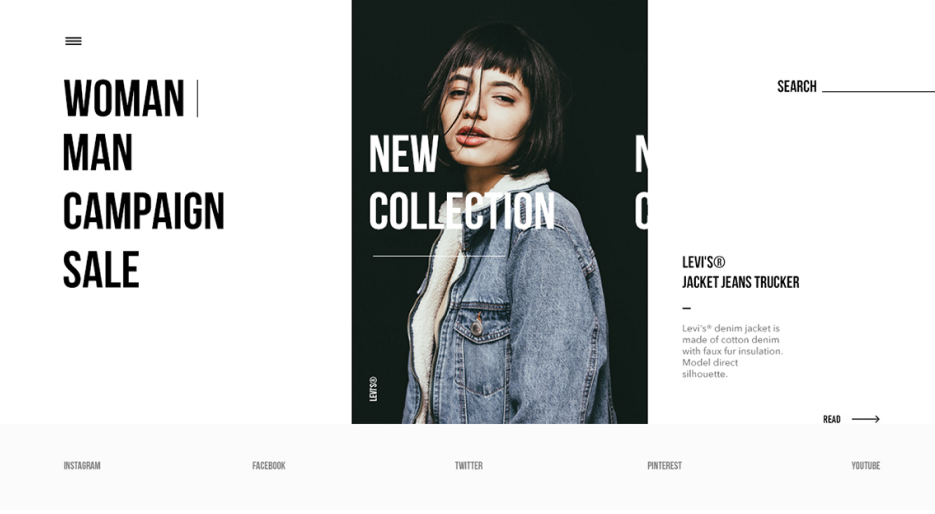
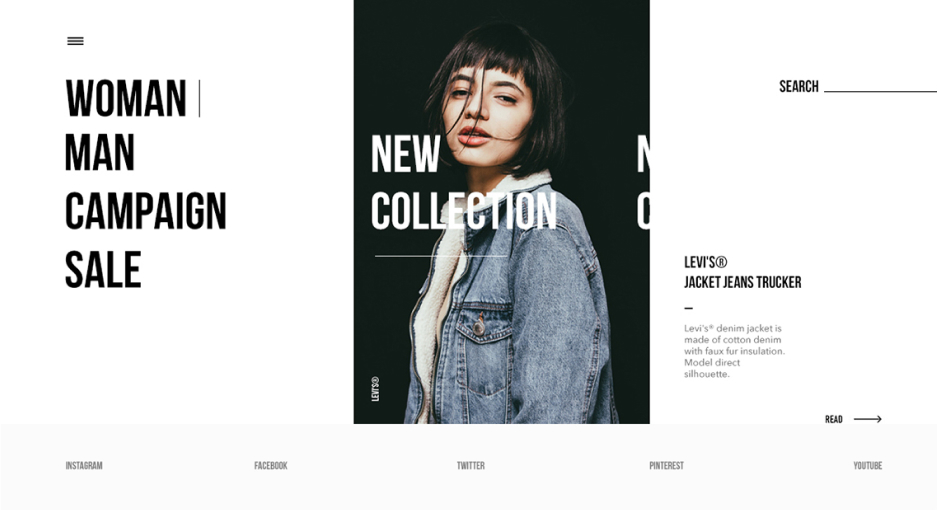
change

diff --git a/css/styles.css b/css/styles.css
@@ -61,6 +61,7 @@ img {
   list-style-type: none;
   transform: rotate(-90deg);
   padding-top: 60%;
+margin-top: 10%;
 }
 .gridContainer ul li {
   display: inline-block;
@@ -134,9 +135,18 @@ img {
   color: #828282;
   margin: 20px 15px;
 }
+
+.picture{
+
+  width: 943.61px;
+  height: 387px;
+  left: 250.69px;
+  top: 276.94px;
+}
 @media screen and (max-width: 600px) {
   img {
-    width: 100%;
+    width: 316px;
+    height: 171px;
     padding: 5px;
   }
   .column {
@@ -168,4 +178,22 @@ img {
   nav {
     display: none;
   }
+  .button{
+    height: 42px;
+    width: 316px;
+    left: 29px;
+    top: 4102px;
+    border-radius: 50px;
+
+  }
+
+  .picture{
+
+    width: 400.5px;
+    height: 300px;
+    left: 29px;
+    top: 275px;
+  }
+
+
 }

diff --git a/index.html b/index.html
@@ -60,7 +60,7 @@
       </div>
   </div>
   <div>
-    <img src="https://tmwbusiness.com/wp-content/uploads/2020/12/OnTheMindsOfB2BAgenciesGlobally-Eoin.jpg" />
+    <img class="picture" src="img/imgheader.png" />
   </div>
 
   </section>
